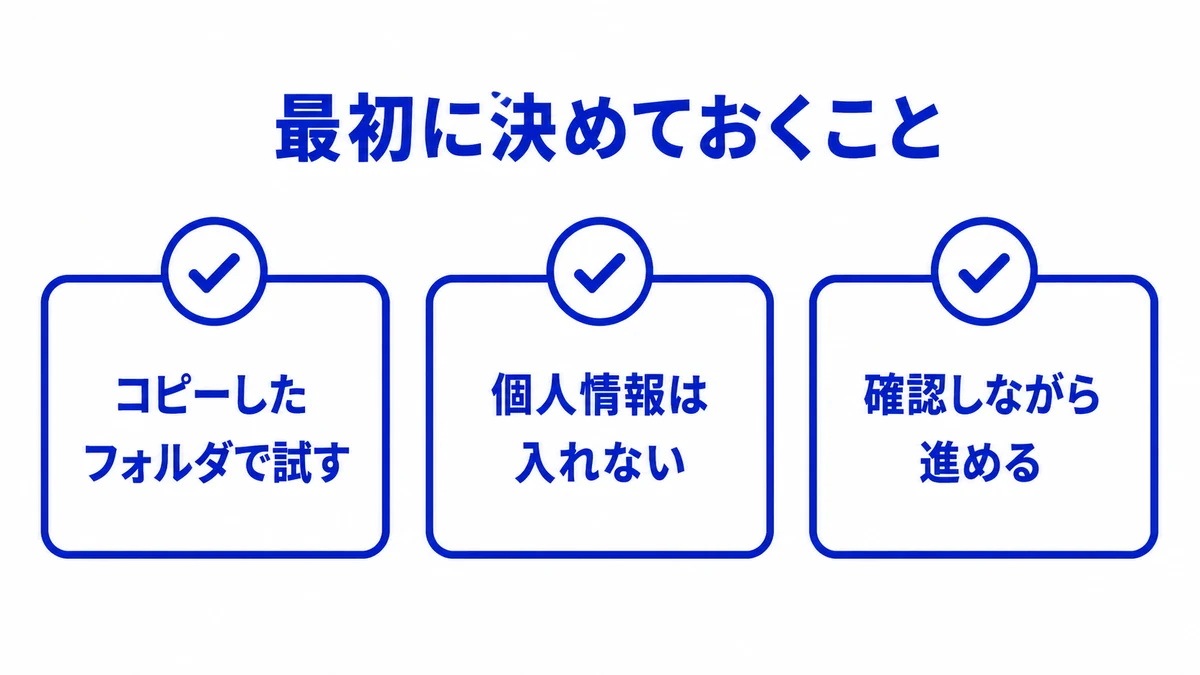
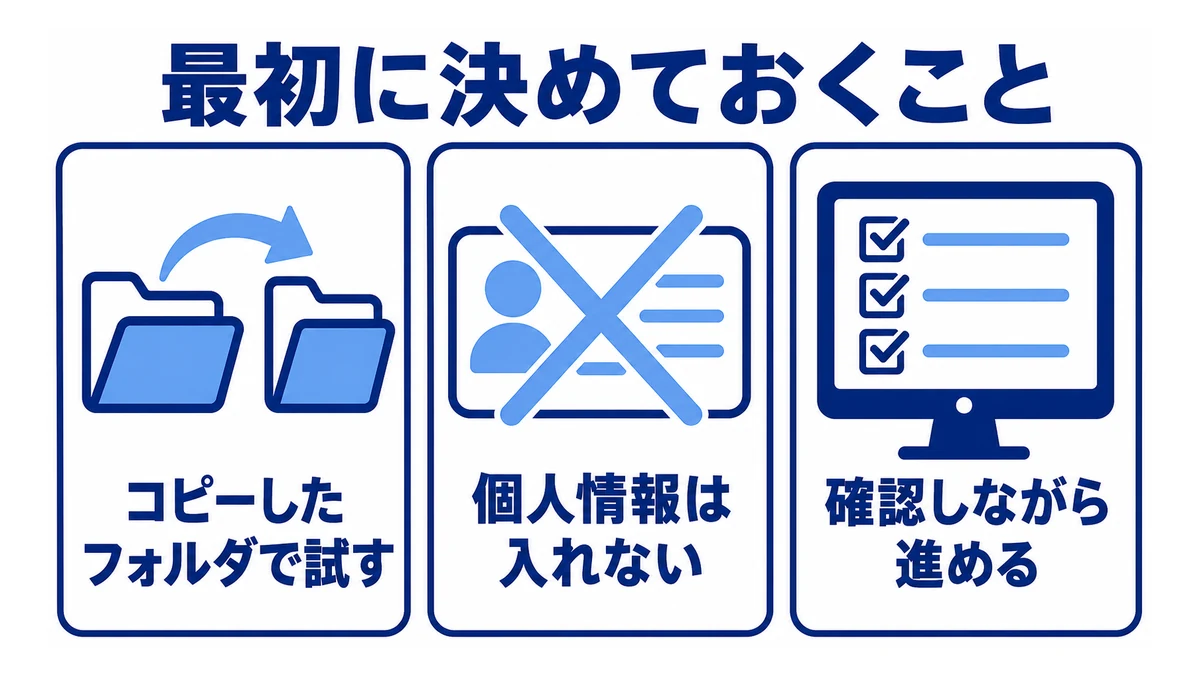
図解2枚を作り直し（ロゴ入り・文字を大きく）
・図3「迷ったらこの順番」にChatGPT（黒）とClaude（オレンジ）のマークを追加
・図4「最初に決めておくこと」にフォルダ複製・個人情報カード・チェック画面の絵を追加
・本文文字を31→50px相当に拡大（スマホ実表示で約8px→約13px）

diff --git a/src/content/blog/chatgpt-claude-code-codex-chigai.md b/src/content/blog/chatgpt-claude-code-codex-chigai.md
@@ -81,7 +81,7 @@ ChatGPT Plusを払っている方は、**今日から追加0円でCodexを触れ
 2. 物足りなければ、もう片方を1か月試す
 3. 両方要ると分かってから両方払う
 
-![選び方の3ステップ。今払っている方を1か月使う、物足りなければもう片方を1か月試す、両方要ると分かってから両方払う](/assets/images/blog/zu-erabikata-3step.webp)
+![選び方の3ステップ。ChatGPTとClaudeのマークを並べて、今払っている方を1か月使う、物足りなければもう片方を1か月試す、両方要ると分かってから両方払う](/assets/images/blog/zu-erabikata-3step.webp)
 
 ## ⑥ 始め方
 
